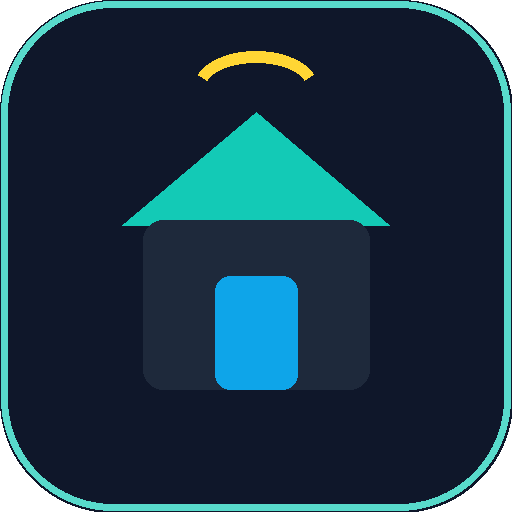
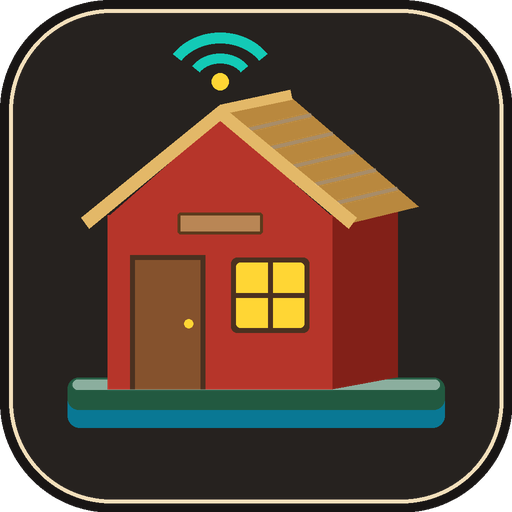
style(pwa): sesuaikan warna dan desain ikon dengan model 3d kamar kos

diff --git a/website/index.html b/website/index.html
@@ -10,10 +10,11 @@
 
     <!-- PWA & Mobile Web App Meta Tags -->
     <link rel="manifest" href="manifest.json">
-    <meta name="theme-color" content="#0a0f1d">
+    <meta name="theme-color" content="#221e1d">
     <meta name="apple-mobile-web-app-capable" content="yes">
     <meta name="apple-mobile-web-app-status-bar-style" content="black-translucent">
     <meta name="apple-mobile-web-app-title" content="SmartKos">
+    <link rel="icon" type="image/png" href="icon-192.png">
     <link rel="apple-touch-icon" href="icon-192.png">
     <link rel="preconnect" href="https://fonts.googleapis.com">
     <link rel="preconnect" href="https://fonts.gstatic.com" crossorigin>

diff --git a/website/sw.js b/website/sw.js
@@ -1,5 +1,5 @@
 // Service Worker - Smart Kamar Kos PWA
-const CACHE_NAME = "smartkos-pwa-v1";
+const CACHE_NAME = "smartkos-pwa-v2";
 const STATIC_ASSETS = [
   "/",
   "/index.html",
